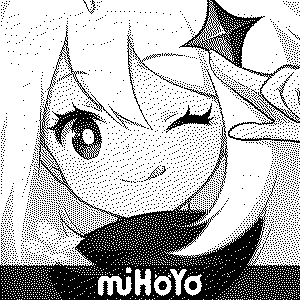
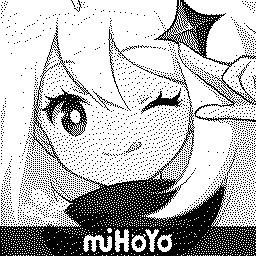
add img

diff --git a/gen.py b/gen.py
@@ -1,5 +1,5 @@
 from PIL import Image
 
 img = Image.open("./log/img/3.png")
-img.convert('L').save("./dataset/val/gt_gray/3.png")
-img.convert('1').save("./dataset/val/image_gray/3.png")
+img.resize((256,256)).convert('L').save("./dataset/val/gt_gray/3.png")
+img.resize((256,256)).convert('1').save("./dataset/val/image_gray/3.png")
